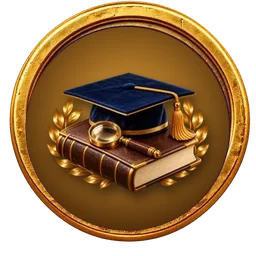
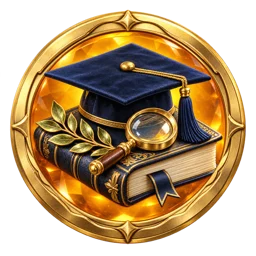
Token updates

diff --git a/js/core/trophy-case.js b/js/core/trophy-case.js
@@ -73,6 +73,9 @@ window.BoohaTrophies = (function () {
     var best = function (field) {
       return Object.keys(scores).reduce(function (m, id) { return Math.max(m, Number((scores[id] || {})[field]) || 0); }, 0);
     };
+    var readyGames = Object.keys(scores).filter(function (id) {
+      return /^(pb|br|bc)(-extra)?:/.test(id) && scores[id] && Number(scores[id].rainbows) > 0;
+    }).length;
     return {
       curr: CURRS.indexOf(curr) >= 0 ? curr : 'br',
       isUnlocked: isUnlocked,
@@ -80,6 +83,7 @@ window.BoohaTrophies = (function () {
       crowns: sum(function (id) { return !/-extra:week_boss$/.test(id); }, 'crowns'),
       bossWins: sum(function (id) { return /-extra:week_boss$/.test(id); }, 'crowns'),
       bestCombo: best('bestCombo'),
+      readyGames: readyGames,
       wanderersMet: Object.keys(wanderers).length,
       roster: roster,
       worldsVisited: WORLDS.filter(function (w) { return !!(meta.worldsVisited && meta.worldsVisited[w]); }),
@@ -110,6 +114,9 @@ window.BoohaTrophies = (function () {
     { id: 'combo_spark', group: 'journey', img: 'medal-combo-spark.webp', en: 'Combo Spark', jp: 'コンボ スパーク',
       how: 'Reach a ×3 combo (10 in a row)', howJp: '10れんぞく せいかいで ×3 コンボ',
       rule: function (ctx) { return { on: ctx.bestCombo >= 10, n: Math.min(ctx.bestCombo, 10), of: 10 }; } },
+    { id: 'rainbow_master', group: 'journey', img: 'token-rainbow-master.webp', en: 'Rainbow Master', jp: 'にじいろ マスター',
+      how: 'Earn Rainbow stars on 1 / 3 / 6 / 9 unique games', howJp: '1・3・6・9つの ゲームで にじいろスター',
+      rule: function (ctx) { return ladder(ctx.readyGames, [1, 3, 6, 9]); } },
     { id: 'crown_collector', group: 'journey', img: 'medal-crown-collector.webp', en: 'Crown Collector', jp: 'クラウン コレクター',
       how: 'Win crowns: 15 / 15 with no mistakes', howJp: 'ノーミス 15/15 で クラウン',
       rule: function (ctx) { return ladder(ctx.crowns, [1, 10, 25, 50]); } },

diff --git a/sw.js b/sw.js
@@ -103,7 +103,7 @@ const CURRENT_CACHES = {
   // first rainbow); rainbow emoji removed from the score card and profile.
   // Ready Pass 1 (2026-10-24): lane breakdown, Booha ready reactions, Week
   // Sealed ready line, weekLog.ready history, per-student seen flags.
-  pages:  'booha-pages-2026-495',
+  pages:  'booha-pages-2026-496',
   // JavaScript is served network-first with a cached fallback (see fetch
   // routing below), so connected pages pick up current scripts promptly.
   // Profile consolidation Pass 1: profile-progress.js is a new cache-first
@@ -281,7 +281,7 @@ const CURRENT_CACHES = {
   // Round token art for the nine new tokens and the arcade boss thumbnail.
   // Rainbow Pass B: theme/game.css + theme/menu.css rainbow star styles.
   // Ready Pass 1: score-card Booha line style (theme/game.css).
-  assets: 'booha-assets-2026-603',
+  assets: 'booha-assets-2026-604',
   // Utsuroba episodes gained vocabulary (8 words per memory per level).
   decks:  'booha-decks-2026-315',
 };
